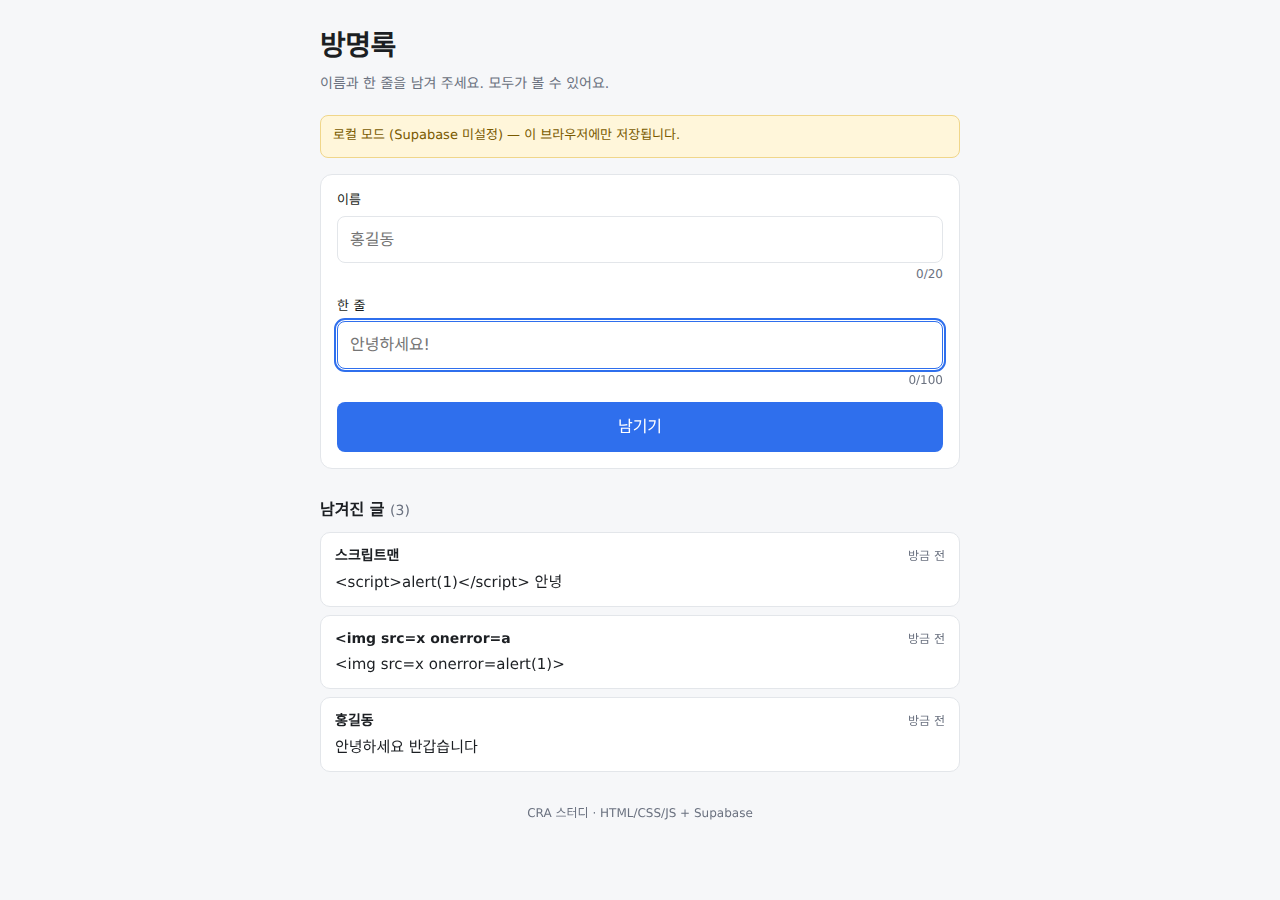
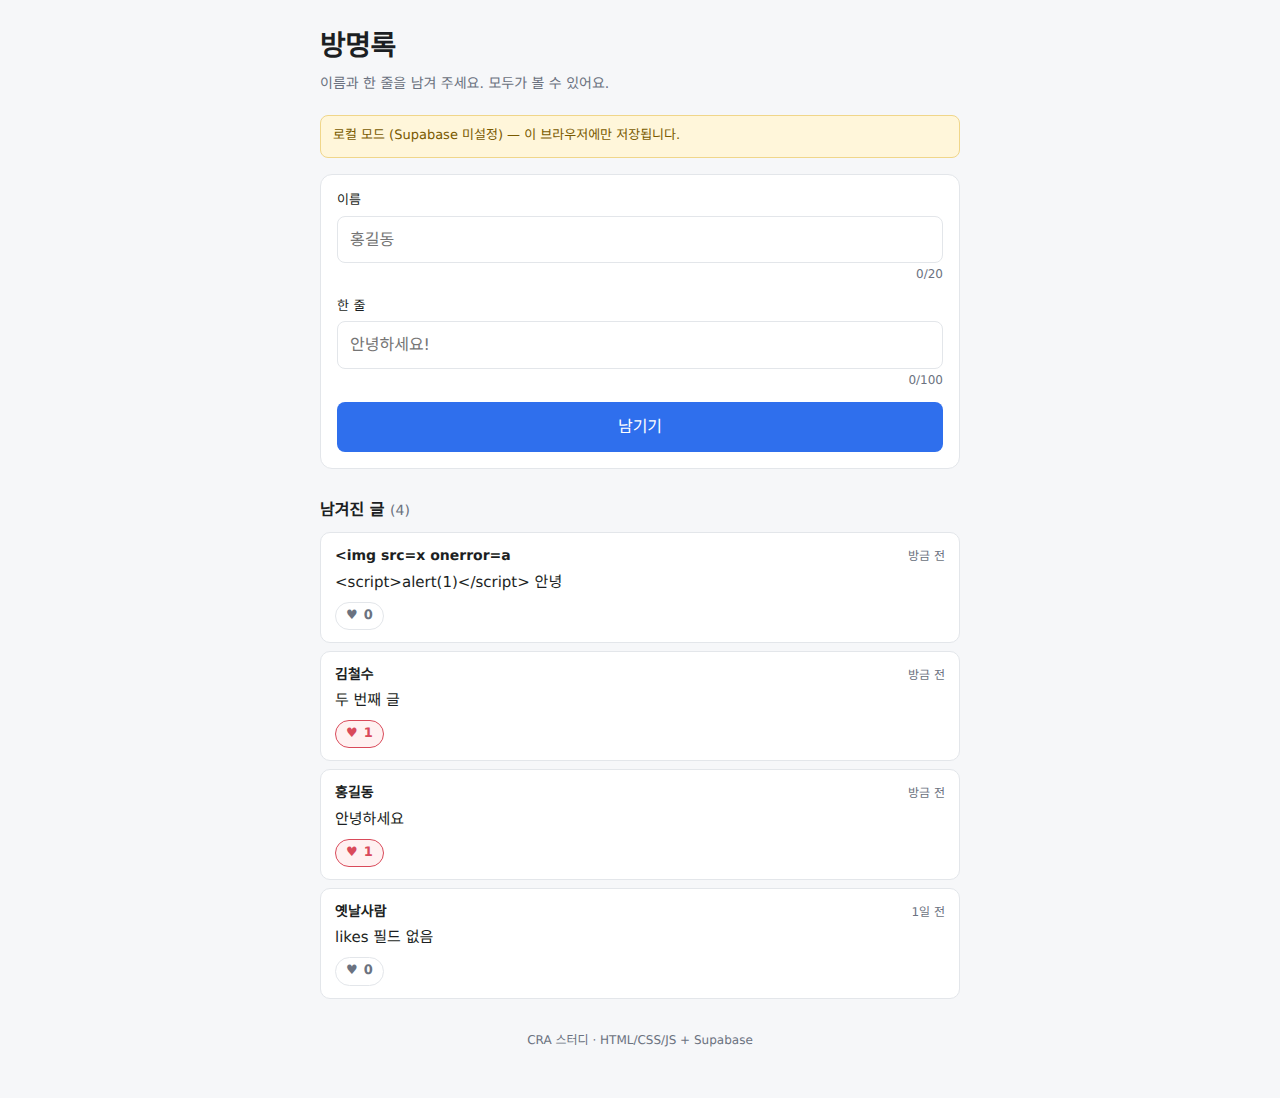
feat: 방명록 항목에 공감(좋아요) 버튼 추가 (#4)
Closes #1

글마다 하트 버튼과 공감 수. UPDATE 정책을 여는 대신 likes+1만 하는
security definer 함수 like_entry()에만 anon 실행 권한을 줬다.
중복은 localStorage(guestbook.liked)로 막는다 — 실수 연타 방지용.

머지 충돌 2곳 해결: css/style.css :root 팔레트(--like를 라이트·다크 토큰으로),
js/app.js 상수 줄(LIKED_KEY·THEME_KEY 둘 다 유지).

리뷰 반영: .like 색 토큰화, .sr-only→.visually-hidden 통일,
aria-disabled 전환, announce() 타이머, likes 컬럼 누락 안내, likes 마이그레이션 추가.

Claude-Session: https://claude.ai/code/session_01YVuUHhrWfJPnCmj9pYcmMe

diff --git a/js/app.js b/js/app.js
@@ -10,6 +10,7 @@ var RATE_LIMIT_MS = 10000;  // 도배 방지: 10초에 1개
 var TABLE = 'guestbook_entries';
 var MOCK_KEY = 'guestbook.mock.entries';  // 로컬 모드 저장소 키
 var RATE_KEY = 'guestbook.lastPostAt';    // 마지막 작성 시각
+var LIKED_KEY = 'guestbook.liked';        // 이 브라우저가 공감한 글 id 목록
 var THEME_KEY = 'guestbook.theme';        // 'light' | 'dark' (없으면 OS 설정을 따름)
 
 // ── DOM 요소 모으기 ────────────────────────────────────
@@ -33,10 +34,13 @@ var useMock = false; // true면 localStorage에 저장
 // ── 0-A. 스크린리더 알림 ────────────────────────────────
 // 눈에 보이는 변화(목록 갱신, 테마 변경)는 소리로도 알려 줘야 한다.
 // #live는 aria-live="polite"라서 여기 글자를 바꾸면 스크린리더가 읽어 준다.
+var announceTimer = null;
 function announce(text) {
   if (!liveEl) return;
+  // 타이머를 안 들고 있으면 50ms 안에 두 번 불릴 때 앞 문장이 소리 없이 사라진다.
+  clearTimeout(announceTimer);
   liveEl.textContent = '';   // 같은 문장이 연달아 와도 다시 읽히도록 한 번 비운다
-  setTimeout(function () { liveEl.textContent = text; }, 50);
+  announceTimer = setTimeout(function () { liveEl.textContent = text; }, 50);
 }
 
 // ── 0-B. 테마 (밝게 / 어둡게) ───────────────────────────
@@ -131,7 +135,7 @@ function fetchEntries() {
   if (useMock) return Promise.resolve(mockLoad().slice(0, LIST_LIMIT));
 
   return supa.from(TABLE)
-    .select('id,name,message,created_at')
+    .select('id,name,message,created_at,likes')
     .order('created_at', { ascending: false })   // 최신순
     .limit(LIST_LIMIT)
     .then(function (res) {
@@ -147,7 +151,8 @@ function addEntry(name, message) {
       id: 'local-' + Date.now(),
       name: name,
       message: message,
-      created_at: new Date().toISOString()
+      created_at: new Date().toISOString(),
+      likes: 0
     });
     mockSave(rows);
     return Promise.resolve();
@@ -156,6 +161,51 @@ function addEntry(name, message) {
   return supa.from(TABLE).insert({ name: name, message: message })
     .then(function (res) {
       if (res.error) throw new Error(res.error.message);
+    });
+}
+
+// ── 3-1. 공감(좋아요) ───────────────────────────────────
+// 로그인이 없어서 서버는 "누가" 눌렀는지 모른다.
+// 그래서 이미 누른 글의 id만 이 브라우저에 적어 두고 버튼을 잠근다.
+function likedIds() {
+  try {
+    var raw = localStorage.getItem(LIKED_KEY);
+    return raw ? JSON.parse(raw) : [];
+  } catch (e) { return []; }
+}
+
+// id는 Supabase에선 숫자, 로컬 모드에선 'local-...' 문자열이라 String으로 맞춘다.
+function hasLiked(id) { return likedIds().indexOf(String(id)) !== -1; }
+
+function markLiked(id) {
+  var ids = likedIds();
+  if (ids.indexOf(String(id)) === -1) ids.push(String(id));
+  try { localStorage.setItem(LIKED_KEY, JSON.stringify(ids.slice(-500))); } catch (e) { /* 무시 */ }
+}
+
+// 공감 +1. 올라간 뒤의 숫자를 돌려준다.
+function likeEntry(id) {
+  if (useMock) {
+    var rows = mockLoad();
+    for (var i = 0; i < rows.length; i++) {
+      if (String(rows[i].id) === String(id)) {
+        rows[i].likes = (rows[i].likes || 0) + 1;
+        mockSave(rows);
+        return Promise.resolve(rows[i].likes);
+      }
+    }
+    return Promise.reject(new Error('글을 찾지 못했어요'));
+  }
+
+  // update 정책을 일부러 안 만들어서 직접 update는 막힌다.
+  // schema.sql의 like_entry() 함수를 부르는 게 유일한 통로다.
+  return supa.rpc('like_entry', { entry_id: id })
+    .then(function (res) {
+      if (res.error) throw new Error(res.error.message);
+      // 그 사이 글이 지워졌으면 update가 0행이라 함수가 NULL을 준다(에러는 안 온다).
+      // 이걸 안 막으면 화면에 숫자 대신 "null"이 찍힌다.
+      if (res.data === null || res.data === undefined) throw new Error('이미 지워진 글이에요');
+      return res.data;
     });
 }
 
@@ -187,7 +237,62 @@ function makeItem(row) {
 
   li.appendChild(top);
   li.appendChild(msg);
+  li.appendChild(makeLikeBtn(row));
   return li;
+}
+
+// 공감 버튼 하나. 숫자는 이 버튼 안의 span 하나만 바꿔서 갱신한다.
+// (목록 전체를 다시 그리면 다른 사람이 쓰던 스크롤 위치까지 튄다)
+function makeLikeBtn(row) {
+  var liked = hasLiked(row.id);
+
+  var btn = document.createElement('button');
+  btn.type = 'button';                  // form 안이 아니어도 습관적으로 명시
+  btn.className = liked ? 'like liked' : 'like';
+  // disabled를 쓰면 브라우저가 접근성 트리에서 빼 버려서, 아래 aria-pressed와
+  // '공감' 라벨을 스크린리더가 아예 못 읽는다. 눈으로 보는 사람만 상태를 아는 꼴.
+  // 그래서 "이미 눌렀음"은 aria-disabled로 표시하고 동작만 핸들러에서 막는다.
+  btn.setAttribute('aria-disabled', liked ? 'true' : 'false');
+  btn.setAttribute('aria-pressed', liked ? 'true' : 'false');
+  btn.title = liked ? '이미 공감했어요' : '공감하기';
+
+  var icon = document.createElement('span');
+  icon.textContent = '♥';
+  icon.setAttribute('aria-hidden', 'true');  // 스크린리더는 아래 '공감'만 읽는다
+
+  var label = document.createElement('span');
+  label.className = 'visually-hidden';
+  label.textContent = '공감';
+
+  var count = document.createElement('span');
+  count.className = 'like-count';
+  count.textContent = String(row.likes || 0);  // 옛 데이터엔 likes가 없을 수 있다
+
+  btn.appendChild(icon);
+  btn.appendChild(label);
+  btn.appendChild(count);
+
+  btn.addEventListener('click', function () {
+    if (btn.getAttribute('aria-disabled') === 'true') return;   // 이미 공감한 글
+    btn.disabled = true;                // 응답 오기 전 연타부터 막는다 (여긴 진짜 disabled가 맞다)
+    likeEntry(row.id)
+      .then(function (next) {
+        count.textContent = String(next);
+        markLiked(row.id);
+        btn.disabled = false;
+        btn.className = 'like liked';
+        btn.setAttribute('aria-disabled', 'true');
+        btn.setAttribute('aria-pressed', 'true');
+        btn.title = '이미 공감했어요';
+        announce('공감했어요. 지금 ' + next + '개.');
+      })
+      .catch(function (err) {
+        btn.disabled = false;           // 실패하면 다시 누를 수 있게 되돌린다
+        showStatus('공감 실패: ' + err.message, true);
+      });
+  });
+
+  return btn;
 }
 
 function render(rows) {
@@ -237,6 +342,12 @@ function refresh() {
   return fetchEntries()
     .then(render)
     .catch(function (err) {
+      // likes 컬럼이 없으면(스키마를 다시 안 돌린 경우) 목록 전체가 실패한다.
+      // 그대로 두면 "연결 실패 → 로컬 모드"로 떨어져서 데이터가 날아간 것처럼 보인다.
+      if (!useMock && /likes/.test(err.message)) {
+        showStatus('supabase/schema.sql 을 한 번 더 Run 해 주세요 (likes 컬럼이 없습니다)', true);
+        return;
+      }
       // Supabase가 안 되면 로컬 모드로 떨어져서 발표는 계속 되게 한다.
       if (!useMock) {
         goMock('연결 실패: ' + err.message);

diff --git a/css/style.css b/css/style.css
@@ -31,6 +31,10 @@
   --warn-line: #f0d68a;
   --warn-text: #6b4f00;
   --shadow: 0 1px 2px rgba(16, 20, 28, 0.05);
+
+  /* 공감 버튼 */
+  --like: #c33b4c;
+  --like-bg: #fff1f1;
 }
 
 /* ⚠ 다크 팔레트 (1/2) — 아래 :root[data-theme="dark"] 블록과 항상 똑같이 유지할 것.
@@ -59,6 +63,10 @@
     --warn-line: #6b5615;
     --warn-text: #f6de9d;
     --shadow: 0 1px 2px rgba(0, 0, 0, 0.4);
+
+    /* 공감 버튼 */
+    --like: #ff8a9b;
+    --like-bg: #2c1a1f;
   }
 }
 
@@ -84,6 +92,10 @@
   --warn-line: #6b5615;
   --warn-text: #f6de9d;
   --shadow: 0 1px 2px rgba(0, 0, 0, 0.4);
+
+  /* 공감 버튼 */
+  --like: #ff8a9b;
+  --like-bg: #2c1a1f;
 }
 
 body {
@@ -275,6 +287,46 @@ button:disabled { background: var(--disabled-bg); color: var(--disabled-ink); cu
   overflow-wrap: anywhere;
   white-space: pre-wrap;
 }
+
+/* ── 공감 버튼 ─────────────────────────────────────────── */
+/* 위의 button 규칙이 width:100% 라서 여기서 되돌려 준다 */
+.like {
+  width: auto;
+  margin-top: 8px;
+  padding: 4px 10px;
+  display: inline-flex;
+  align-items: center;
+  gap: 6px;
+  /* 색은 직접 적지 않는다. 다크 테마에서 이 버튼만 흰색으로 남으면 안 된다. */
+  background: var(--card);
+  border: 1px solid var(--line);
+  border-radius: 999px;
+  color: var(--muted);
+  font-size: 13px;
+  font-weight: 600;
+  line-height: 1.4;
+}
+
+/* 이미 누른 글은 hover 반응을 주지 않는다 */
+.like:not([aria-disabled="true"]):hover {
+  background: var(--like-bg);
+  border-color: var(--like);
+  color: var(--like);
+}
+
+/* 이미 누른 글: 눌렸다는 게 색으로도 보이게. 흐려지면 안 된다 */
+.like.liked,
+.like[aria-disabled="true"] {
+  background: var(--like-bg);
+  border-color: var(--like);
+  color: var(--like);
+  cursor: default;
+}
+
+/* 응답 대기 중(진짜 disabled)만 흐려진다 */
+.like:disabled { opacity: 0.6; cursor: progress; }
+
+.like-count { font-variant-numeric: tabular-nums; }
 
 .foot {
   margin-top: 32px;

diff --git a/README.md b/README.md
@@ -99,6 +99,14 @@ Pages로 배포할 땐 config.js를 커밋하거나(=anon key 공개, 원래 공
 | INSERT (쓰기) | ✅ |
 | UPDATE (수정) | ❌ 정책 없음 → 거부 |
 | DELETE (삭제) | ❌ 정책 없음 → 거부 |
+| 공감 +1 | ✅ `like_entry()` 함수로만 |
+
+공감(좋아요)은 UPDATE가 필요하지만, "아무나 UPDATE" 정책을 열면 남의 `name`/`message`까지
+고칠 수 있게 된다. 그래서 UPDATE는 계속 막아 두고, `likes`를 1 올리는 일만 하는
+`like_entry()` 함수(`security definer`)에만 실행 권한을 줬다. **할 수 있는 일의 크기**를 줄이는 쪽이다.
+
+> 이미 이전 버전으로 테이블을 만들어 뒀다면 `supabase/schema.sql`을 **한 번 더 Run** 해야
+> `likes` 컬럼과 `like_entry()` 함수가 생긴다. 여러 번 돌려도 안전하게 써 뒀다.
 
 RLS를 **안 켜면**, 키를 주운 사람이 `delete from guestbook_entries` 한 줄로 전부 날릴 수 있다.
 "키를 숨기자"가 아니라 "키로 할 수 있는 일을 줄이자"가 정답이다.
